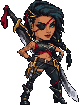
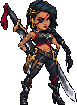
Samira design from Codex's v3 (the head smaller, 27 % of her height): read on its 8-px squares (100 x 136), cut to 77 x 105 at PPU 2.84, the face's lines kept

diff --git a/tools/art/design_samira_hd.py b/tools/art/design_samira_hd.py
@@ -25,12 +25,12 @@ import design_fiora_hd as FD  # noqa: E402
 
 ROOT = os.path.dirname(os.path.dirname(HERE))
 AH.HD = os.path.join(ROOT, "assets", "source", "samira", "hd")
-AH.RAW, AH.PITCH = "samira-lol-refined.png", (7.5, 8.6)  # its own square (~8 px)
+AH.RAW, AH.PITCH = "samira-v3.png", (7.5, 8.6)  # its own square (~8 px): v3, the head smaller
 OLD = 37                        # her 1x idle, the sword's hilt to her soles
 CROWN = 0                       # (measured from the top of the read: the hilt)
 PPU = 2.84                      # the user's pick, 2026-10-25: 「用 PPU 2.2 取平均的那版」, then on the result 「太糊了 用2.84吧」
 HOW = "cut"                     # whole lines dropped: sharper than the Lab mean at 2.84 (her eye, the tattoo, the chains)
-FACE_ROWS, FACE_COLS = range(26, 46), range(50, 75)   # her eye (read rows 29-35), mouth (39-44), never dropped
+FACE_ROWS, FACE_COLS = range(18, 36), range(44, 68)   # v3: her eye (read rows 22-27), mouth (31-32), chin 35, never dropped
 PEERS = ["samira", "annie", "ahri", "lux"]
 
 

diff --git a/assets/source/samira/hd/raw/HANDOFF-v3.md b/assets/source/samira/hd/raw/HANDOFF-v3.md
@@ -1,0 +1,21 @@
+# 莎米拉 v3：缩小头部
+
+依据 samira_head_pack.zip 中的 v2 原图和尺寸示意重绘，缩小头部与发型，延长颈部、躯干与腿部；沿用叉腰姿势、眼罩红带、绿眼、金链、耳环、手臂纹身、护甲、枪套和背剑设计。
+
+## 交付文件
+
+- samira-v3.png：1024×1536 透明成图。
+- raw/samira-v3-generated.png：未经处理的原始生成图。
+- generation-prompts.txt：原生 image_gen 工具实际提示词及导出说明。
+- validation.json：尺寸、透明度及像素范围检查结果。
+- HANDOFF.md：本交付说明。
+
+## 检查与偏差
+
+最终图保持生成图原尺寸与 RGB，没有空间重采样、没有转换为 11 像素格、没有调色板压缩。仅将 alpha 按 128 阈值规范化为 0/255，去除生成图半透明光晕；人物间隙透明。
+
+头顶约 y=428、下巴目测约 y=710，头高约 282px；按当前脚底约 y=1484 计，头身比约 27%，接近目标 26%。该比例为视觉测量估计，不是自动语义测量。
+
+与尺寸示意相比，头顶偏移约 4px，脚底高约 36px，未做到完全保持原脚底 y=1520。服装与武器经过生成重绘，局部形状并非逐像素不变。保留生成的细像素风格；未验证全图均为严格 8px 单一网格或每种材质严格只有 3–4 色。
+
+本交付为静态设计图，未修改游戏工程或生成动作帧。包内给 Claude 的后续工程步骤仅作上下文，未执行。
